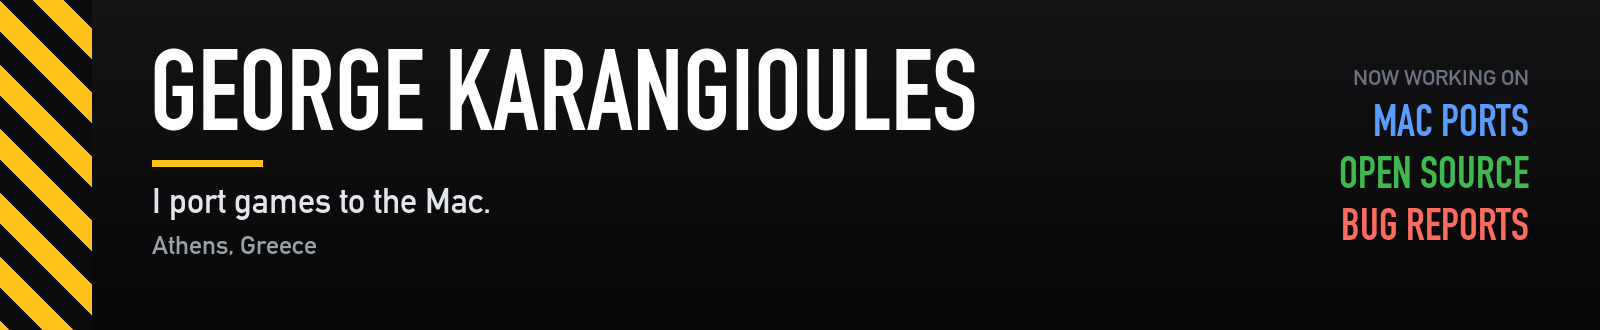
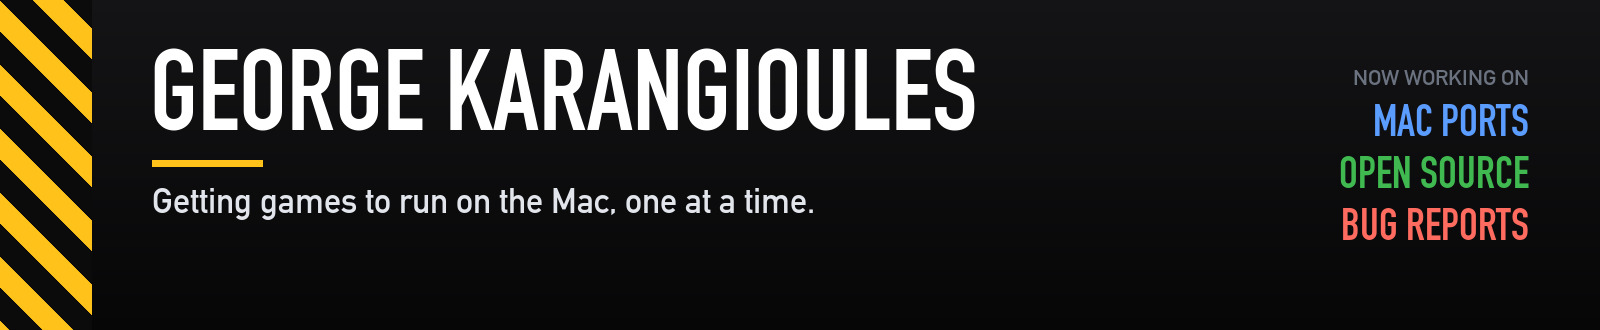
Profile: header line, no location

Changed region(s): [[0.0938, 0.5758, 0.5, 0.6667], [0.0938, 0.7273, 0.2188, 0.7879]]

diff --git a/README.md b/README.md
@@ -1,4 +1,4 @@
-<img src="images/header.jpg" alt="George Karangioules. I port games to the Mac. Athens, Greece." width="100%">
+<img src="images/header.jpg" alt="George Karangioules. Getting games to run on the Mac, one at a time." width="100%">
 
 <a href="https://github.com/gkaragioul/mac-ports"><img src="images/mac-ports-banner.jpg" alt="Mac Ports: games, rebuilt to run natively on Apple silicon Macs. See the games and downloads." width="100%"></a>
 
